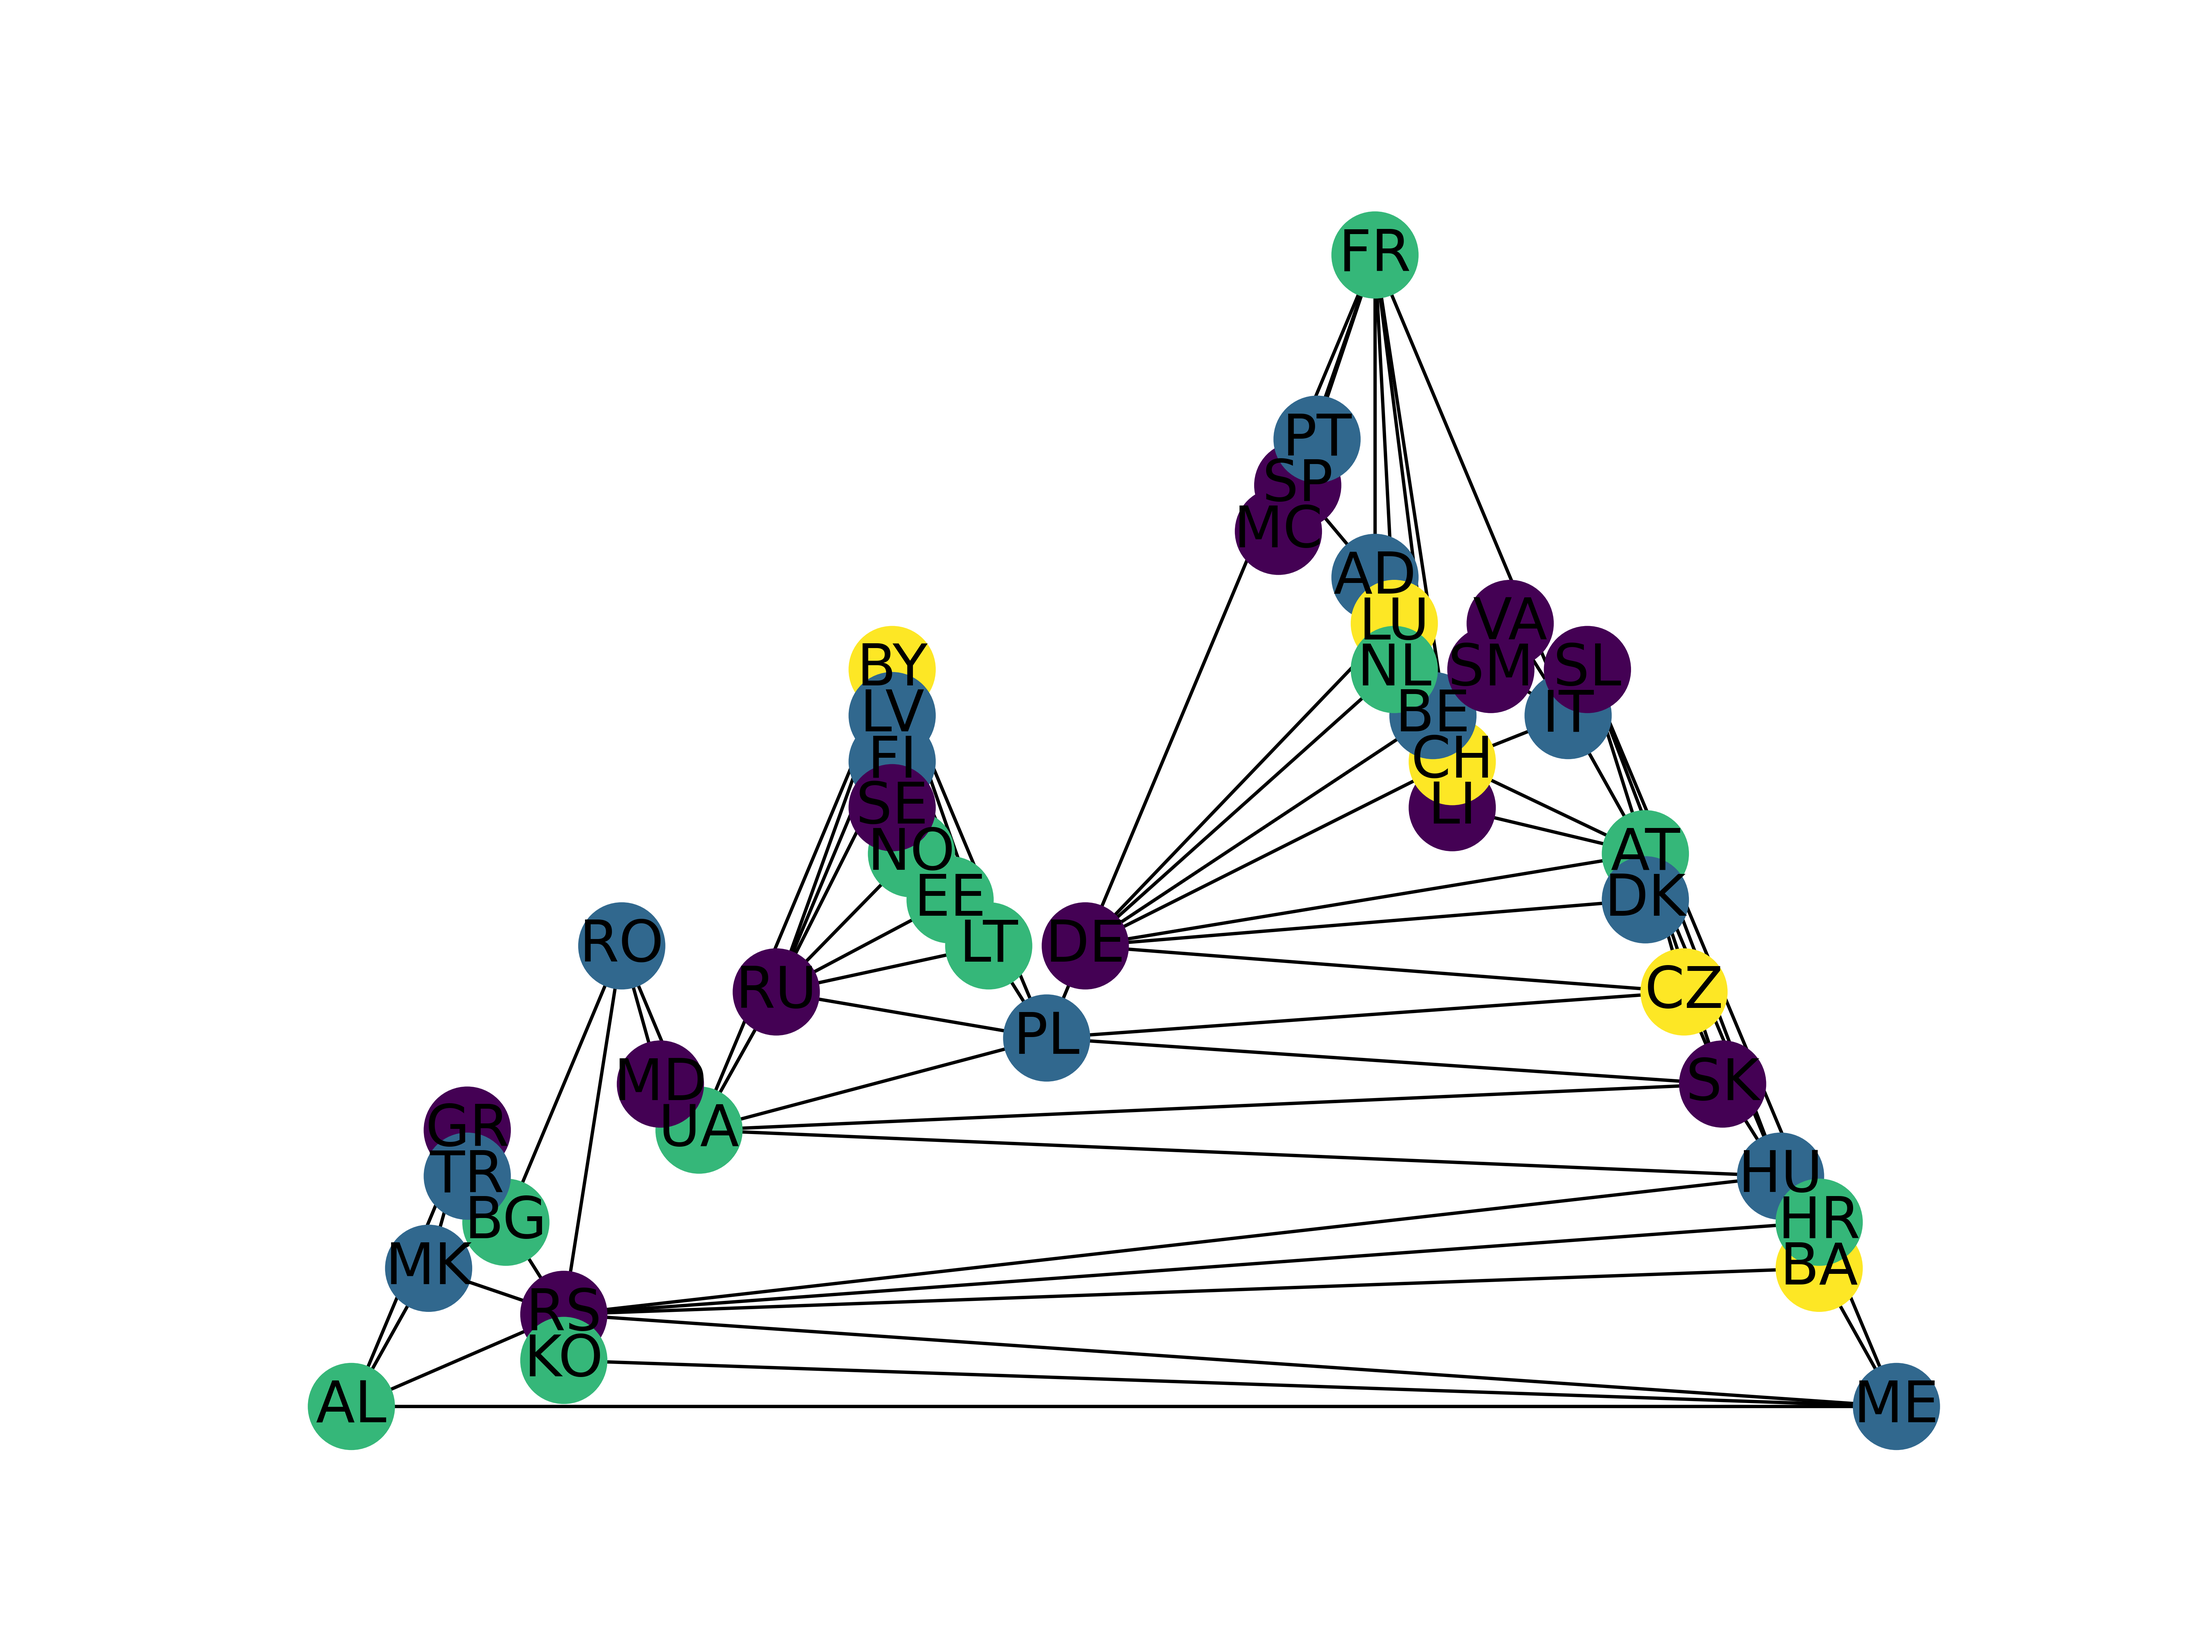
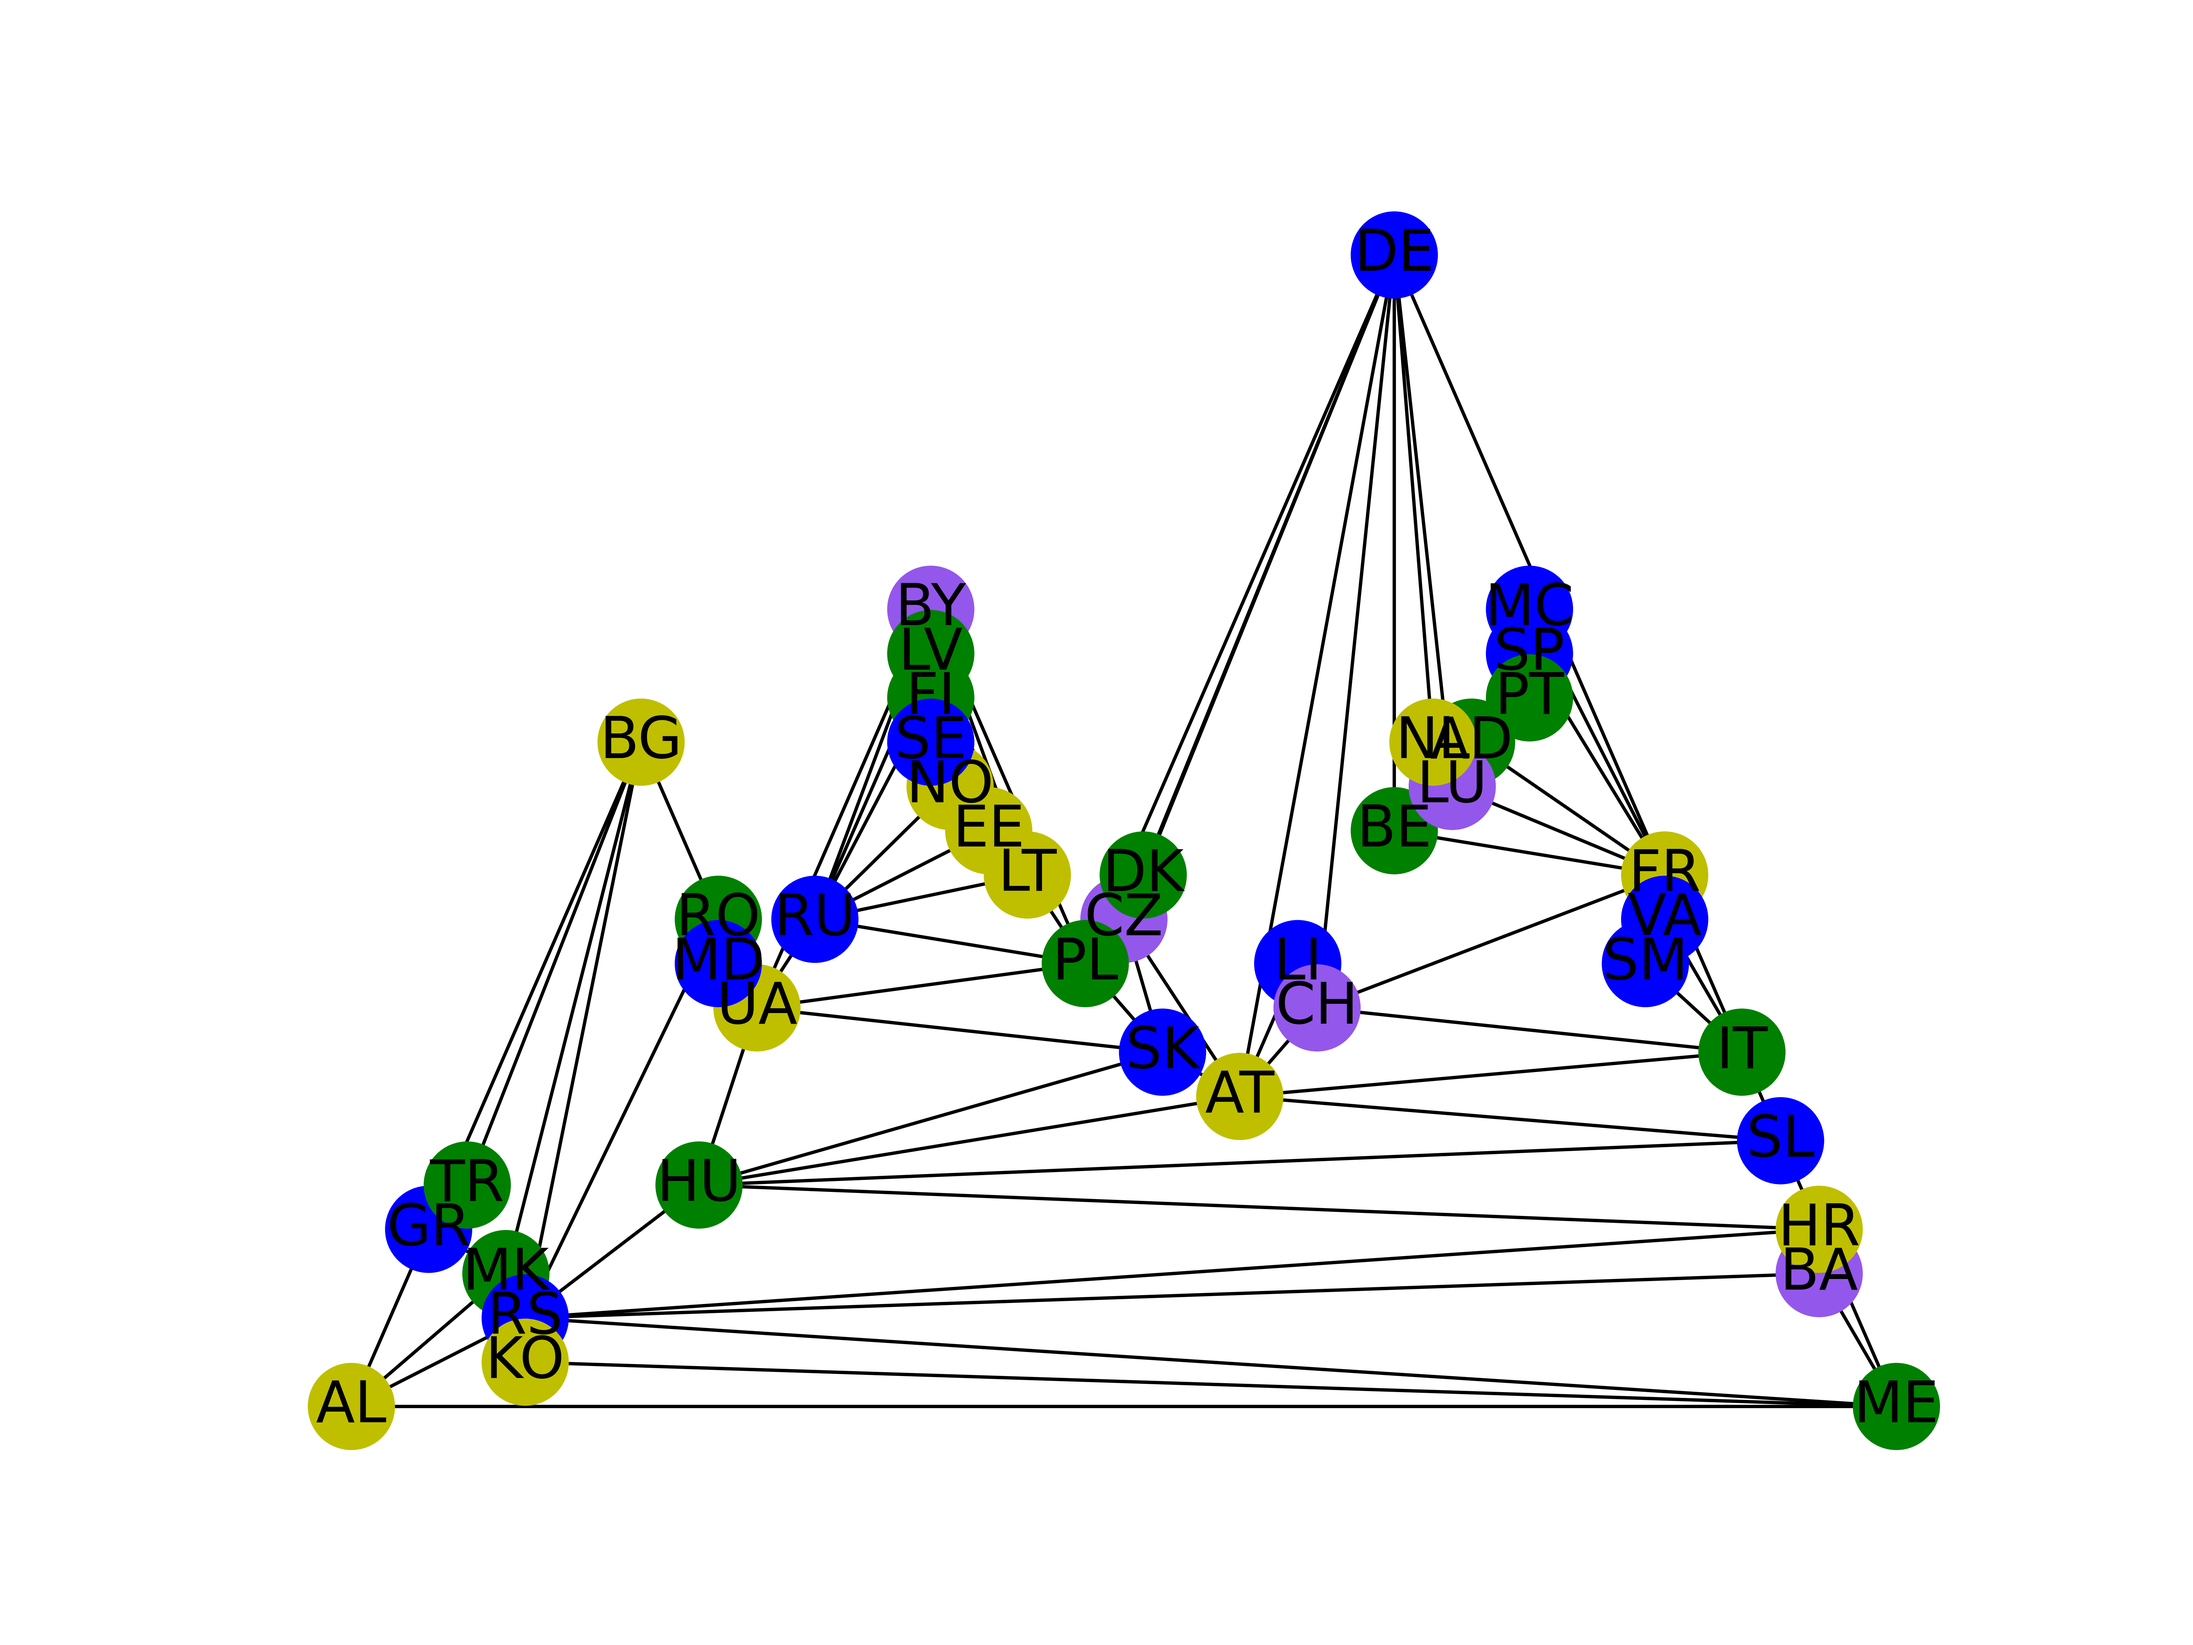
task d added

Changed region(s): [[0.125, 0.125, 0.875, 0.875], [0.8438, 0.8125, 0.9062, 0.9062], [0.25, 0.4062, 0.3125, 0.5]]

diff --git a/main.py b/main.py
@@ -5,6 +5,7 @@ import matplotlib.pyplot as plt
 free_nodes = ["CY", "MT", "IS"]
 color_map = ['b', 'g', 'y', "#9457EB", "#004242", "#FF43A4", "#FA8837", "#05AFB2", "#B22030", "#A0785A"]
 
+
 def maximum_connected_component(G):
     gr = nx.Graph(G)
     gr.remove_nodes_from(free_nodes)
@@ -12,12 +13,14 @@ def maximum_connected_component(G):
     gr.remove_nodes_from(smallest)
     return gr
 
+
 def draw_graph(G, filename, node_color="#1F78B4", edge_color="000000"):
     plt.subplot(111)
     position = nx.planar_layout(G)
     nx.draw(G, pos=position, node_color=node_color, edge_color=edge_color, with_labels=True, width=0.7)
     plt.savefig(filename, dpi=1000)
     plt.show()
+
 
 def task_b(G):
     gr = nx.Graph(G)
@@ -40,8 +43,9 @@ def task_b(G):
     print("𝜅(G) = " + str(nx.node_connectivity(gr)))
     print("𝜆(G) = " + str(nx.edge_connectivity(gr)))
 
+
 def task_c(G):
-    #we use less, than 4 colors because of the clique ['BY', 'PL', 'RU', 'UA']
+    # we use less, than 4 colors because of the clique maximum ['BY', 'PL', 'RU', 'UA']
     res_file = open('vertex_coloring.txt', 'w')
     gr = maximum_connected_component(G)
     coloring = nx.greedy_color(gr, strategy="DSATUR")
@@ -50,7 +54,8 @@ def task_c(G):
         res_file.write(string)
     res_file.close()
 
-def task_c_pic(G):
+
+def task_c_pic(G, filename):
     gr = maximum_connected_component(G)
     file = open("vertex_coloring.txt")
     colors = dict()
@@ -59,15 +64,27 @@ def task_c_pic(G):
         colors[line.split(":")[0]] = int(line.split(":")[1])
     nodes_color = list()
     for i in nodes:
-        nodes_color.append(colors[i])
-    draw_graph(gr, "vertex_coloring.png", node_color=nodes_color)
+        nodes_color.append(color_map[colors[i]])
+    draw_graph(gr, filename, node_color=nodes_color)
+
+
+def task_d(G):
+    # max degree in our graph is 9(for example: Germany), so we can't use less, than 9 colors. Lets color edges to prove that 9 is minimum
+    gr = maximum_connected_component(G)
+    edges_colors = list()
+    length = len(list(gr.edges.keys()))
+    for i in range(0, length):
+        edges_colors.append(color_map[i % len(color_map)])
+    draw_graph(gr, "edge_coloring.txt.png", edge_color=edges_colors, node_color="#FF2603")
+
 
 
 
 def task_e(G):
     gr = maximum_connected_component(G)
     cliques = list(nx.enumerate_all_cliques(gr))
-    print("Maximum clique: "+str(cliques.pop()))
+    print("Maximum clique: " + str(cliques.pop()))
+
 
 def task_f(G):
     gr = maximum_connected_component(G)
@@ -75,11 +92,13 @@ def task_f(G):
     print("Size of stable set" + str(len(independent_set)))
     print("Stable set: " + str(independent_set))
 
+
 def task_g(G):
     gr = maximum_connected_component(G)
     max_match = nx.max_weight_matching(gr, maxcardinality=True, weight=0)
     print("Size of maximum matching: " + str(len(max_match)))
     print("Maximum matching: " + str(max_match))
+
 
 def task_h(G):
     gr = maximum_connected_component(G)
@@ -87,11 +106,13 @@ def task_h(G):
     print("Number of vertex in minimum cover: " + str(len(min_v_cover)))
     print("Minimum vertex cover of G: " + str(min_v_cover))
 
+
 def task_i(G):
     gr = maximum_connected_component(G)
     min_e_cover = nx.algorithms.min_edge_cover(gr)
     print("Number of edges in minimum cover: " + str(len(min_e_cover)))
     print("Minimmum edge cover of G: " + str(min_e_cover))
+
 
 G = nx.Graph()
 file = open("input.txt")
@@ -104,15 +125,13 @@ for i in file.readlines():
 G.add_weighted_edges_from(edges)
 G.add_nodes_from(free_nodes)
 
-#draw_graph(G, "planar_pic") done
-#task_b(G) done
-#task_c(G) done
-#task_c_pic(G) done
-#task_d(G) -
-#task_e(G) done
-#task_f(G) done
-#task_g(G) done
-#task_h(G) done
-#task_i(G) done
-
-
+#draw_graph(G, "planar_pic")
+#task_b(G)
+#task_c(G)
+#task_c_pic(G, "vertex_coloring")
+#task_d(G)
+#task_e(G)
+#task_f(G)
+#task_g(G)
+#task_h(G)
+#task_i(G)
